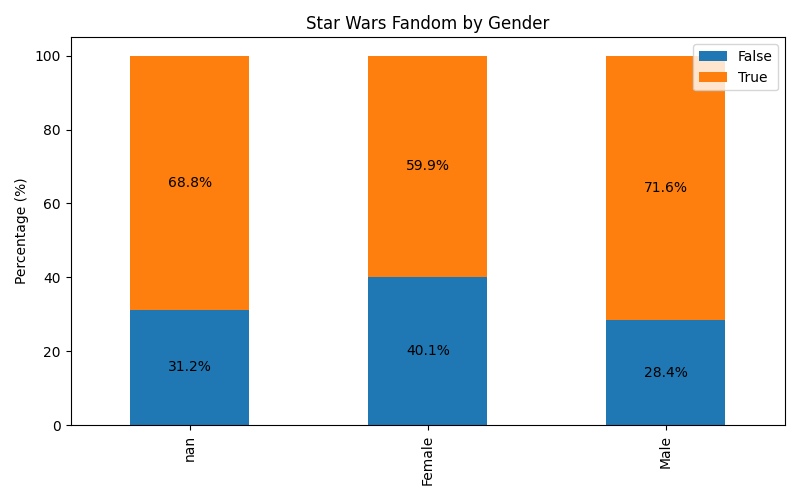
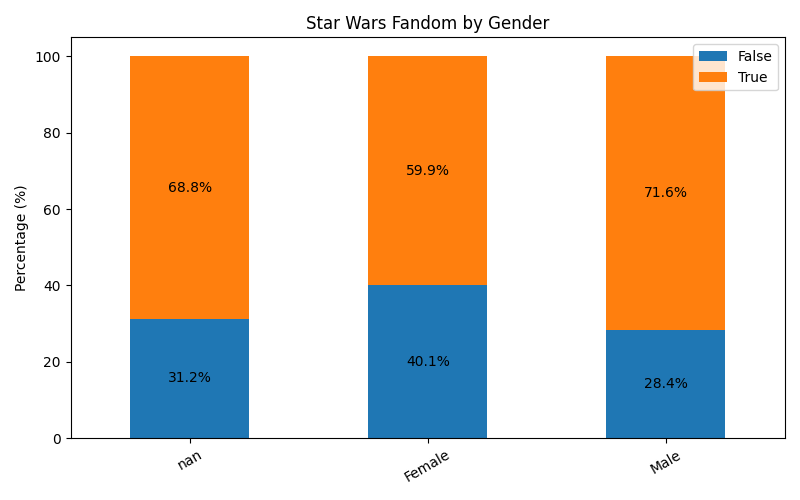
Continue phase 2.2 for nominal variables gender, education_level, household_income, census_region, age_group

diff --git a/analysis/eda_nominal_binary.py b/analysis/eda_nominal_binary.py
@@ -50,6 +50,7 @@ def plot_nominal_binary(
     ax.set_xlabel("")
     ax.set_title(title)
     ax.legend(title="")
+    ax.set_xticklabels(ax.get_xticklabels(), rotation=30, ha="center")
 
     for container in ax.containers:
         ax.bar_label(container, fmt="%.1f%%", label_type="center")
@@ -76,6 +77,78 @@ def main() -> None:
         title="Star Wars Fandom by Gender",
         save_path = FIGURES_DIR /
                     "gender_fan_star_wars.png",
+    )
+
+    print("\nCounts:")
+    print(counts)
+
+    print("\nRow percentages (%):")
+    print(pct)
+
+    counts, pct = nominal_binary_crosstab(
+        df,
+        nominal_col="education_level",
+        binary_col="fan_star_wars",
+    )
+
+    plot_nominal_binary(
+        pct,
+        title="Star Wars Fandom by Education Level",
+        save_path=FIGURES_DIR / "education_fan_star_wars.png",
+    )
+
+    print("\nCounts:")
+    print(counts)
+
+    print("\nRow percentages (%):")
+    print(pct)
+
+    counts, pct = nominal_binary_crosstab(
+        df,
+        nominal_col="household_income",
+        binary_col="fan_star_wars",
+    )
+
+    plot_nominal_binary(
+        pct,
+        title="Star Wars Fandom by Household Income Level",
+        save_path=FIGURES_DIR / "household_income_fan_star_wars.png",
+    )
+
+    print("\nCounts:")
+    print(counts)
+
+    print("\nRow percentages (%):")
+    print(pct)
+
+    counts, pct = nominal_binary_crosstab(
+        df,
+        nominal_col="census_region",
+        binary_col="fan_star_wars",
+    )
+
+    plot_nominal_binary(
+        pct,
+        title="Star Wars Fandom by Census Region",
+        save_path=FIGURES_DIR / "census_region_fan_star_wars.png",
+    )
+
+    print("\nCounts:")
+    print(counts)
+
+    print("\nRow percentages (%):")
+    print(pct)
+
+    counts, pct = nominal_binary_crosstab(
+        df,
+        nominal_col="age_group",
+        binary_col="fan_star_wars",
+    )
+
+    plot_nominal_binary(
+        pct,
+        title="Star Wars Fandom by Age Group",
+        save_path=FIGURES_DIR / "age_group_fan_star_wars.png",
     )
 
     print("\nCounts:")
